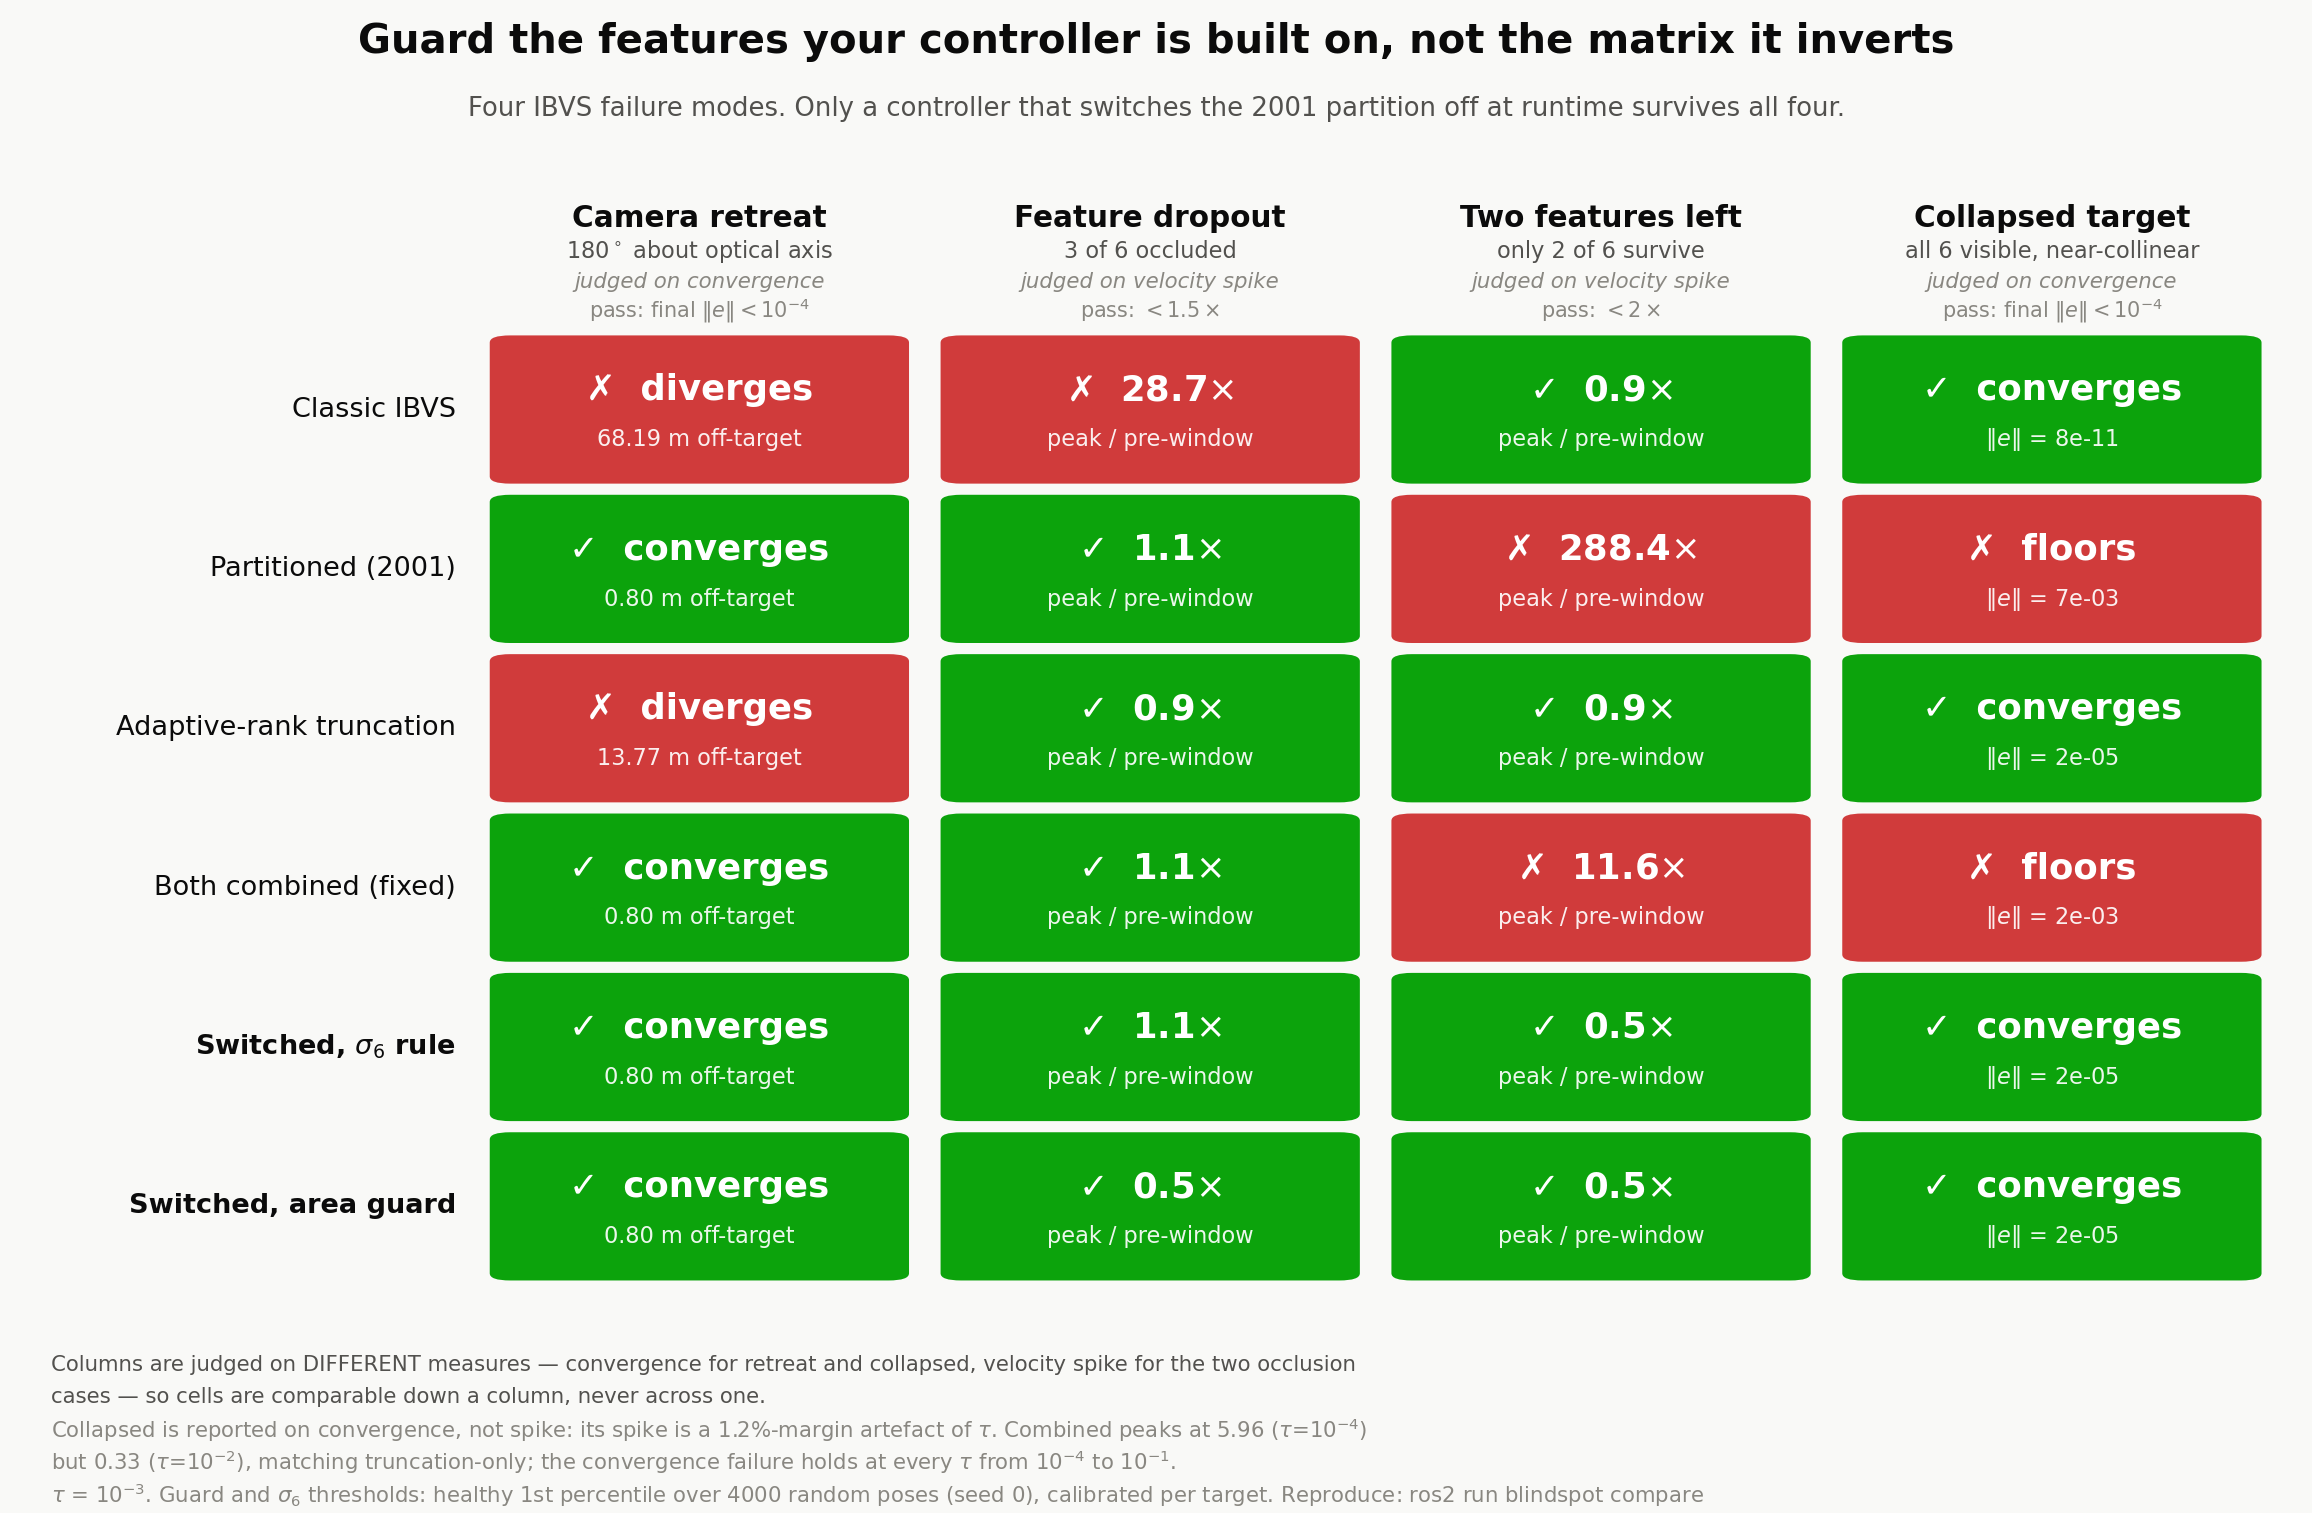
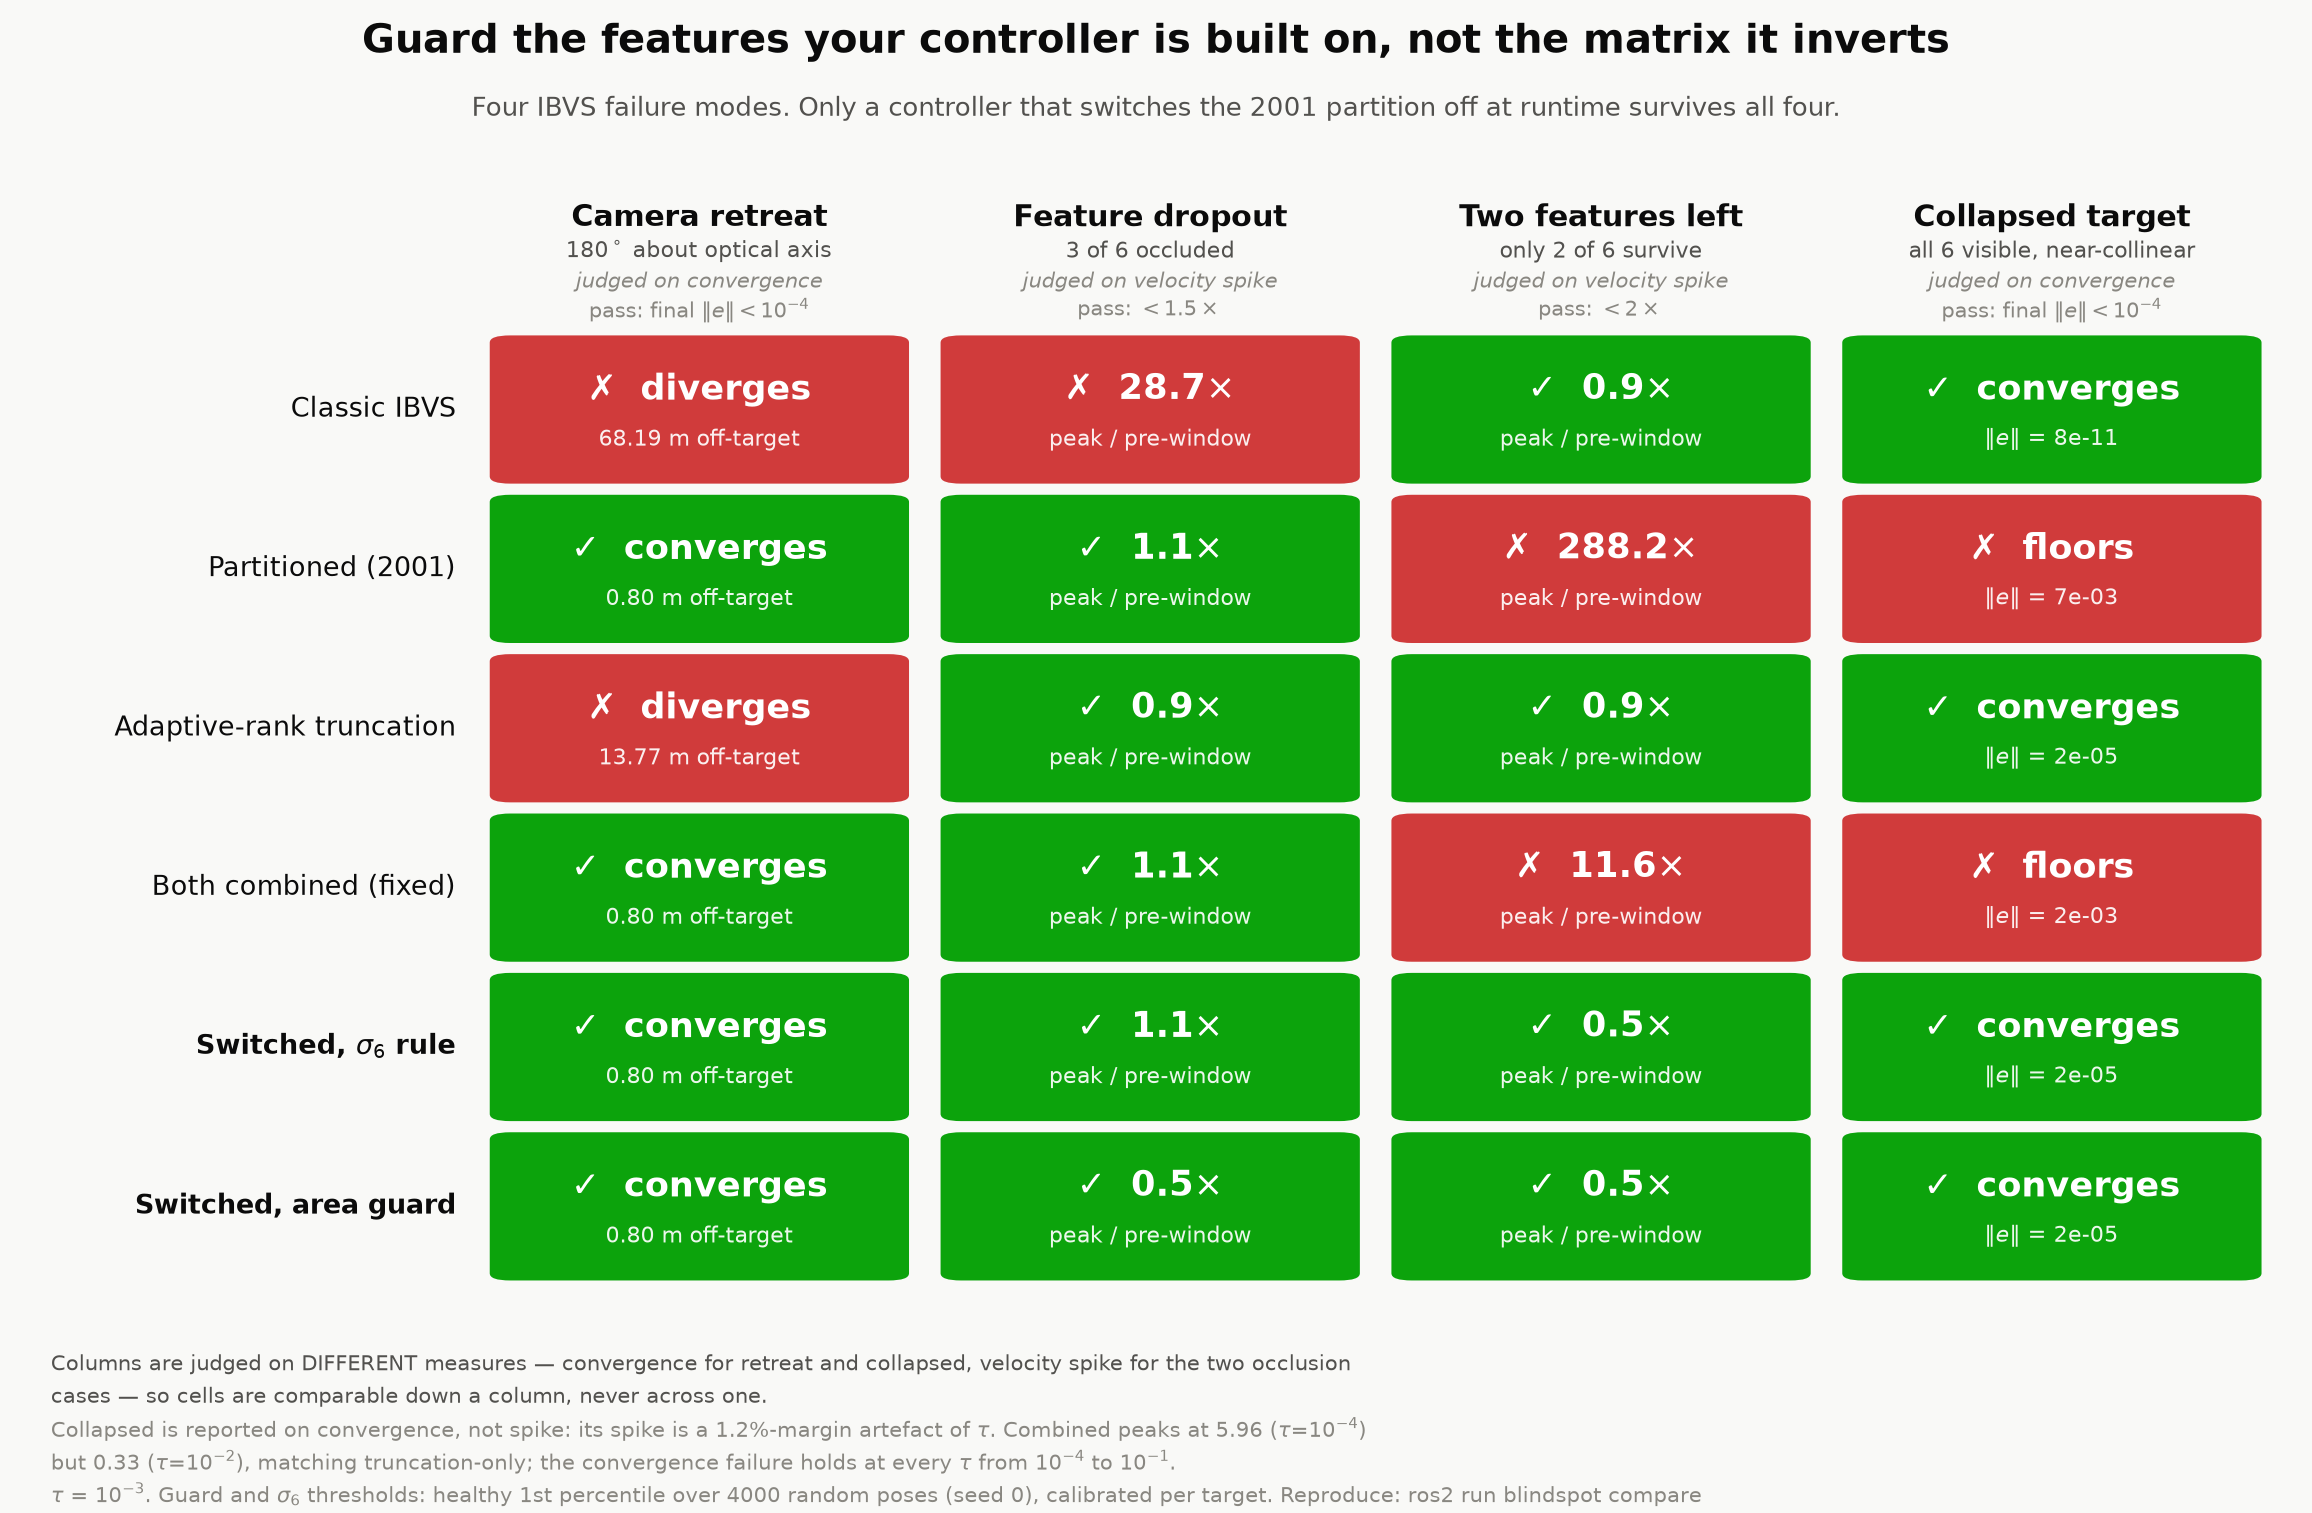
Bring the README back in line with what the code prints
Four claims had drifted from the workspace they describe.

The two-feature spike is 288.2x, not 288.4x. compare and regression both
print 288.221297, unchanged across numpy 1.26, 2.2 and 2.5, so the old
value came from code that has since moved. fig2 was stale for the same
reason and is regenerated.

Figure 1 is the 160 deg retreat, which peaks at 4.8 m and recovers. The
caption was quoting 68.19 m, which is the 180 deg row of the results
table and a different run.

guard_node's ordering self-check compares against an angular sort about
the centroid, not a convex hull; the header stopped saying hull, the
README had not. Its fovy_deg and expected_ids parameters were undocumented.

fold.launch.py starts the servo node on one spawner exiting, not on both
controller managers coming up.

diff --git a/README.md b/README.md
@@ -87,8 +87,9 @@ ros2 run blindspot_cpp quickstart                 # the guard in 30 seconds
 
 `fold.launch.py` takes `gui:=false` for headless runs and `record:=true` to
 save every camera frame by simulation timestamp — which is how the clip at the
-top of this README and the per-step CSV behind the arm table are produced. It starts the servo node once
-both controller managers are up, and exits when the act completes.
+top of this README and the per-step CSV behind the arm table are produced. It
+starts the servo node when the second cell's arm controller has finished
+loading, and exits when the act completes.
 
 ## Repository layout
 
@@ -106,7 +107,7 @@ A colcon workspace with four packages:
 | Controller | Retreat 180° | Dropout spike | 2 features | Collapsed target | Clean cost |
 |---|---|---|---|---|---|
 | Classic IBVS | ✗ 68.19 m, diverges | ✗ 28.7× | ✓ 0.9× | ✓ conv, 8e-11 | baseline |
-| Partitioned (2001) | ✓ 0.80 m, converges | ✓ 1.1× | ✗ 288.4× | ✗ floors at 7.3e-3 | +13% |
+| Partitioned (2001) | ✓ 0.80 m, converges | ✓ 1.1× | ✗ 288.2× | ✗ floors at 7.3e-3 | +13% |
 | Adaptive-rank truncation | ✗ 13.77 m, diverges | ✓ 0.9× | ✓ 0.9× | ✓ conv, 2.4e-5 | baseline |
 | Both combined (fixed) | ✓ 0.80 m, converges | ✓ 1.1× | ✗ 11.6× | ✗ floors at 2.0e-3 | +13% |
 | Switched, feature count | ✓ 0.80 m, converges | ✓ 1.1× | ✓ 0.5× | ✗ floors at 2.0e-3 | +13% |
@@ -132,8 +133,11 @@ calibrated per target, never tuned by hand.
 
 ![Camera retreat: image error falls monotonically while the camera flies metres away from the target](docs/fig1_retreat.png)
 
-*Camera retreat, the case that makes image error useless as a health signal:
-the feature error decreases at every step while the camera flies 68 m away.*
+*Camera retreat, the case that makes image error useless as a health signal.
+Shown at 160°, where the run still recovers: the feature error falls at every
+single step while the camera backs away to 4.8 m, and only the conditioning of
+`L` sees it coming. At exactly 180° it does not recover — that is the 68.19 m
+row in the table above.*
 
 ## The four failure modes
 
@@ -212,13 +216,18 @@ ros2 run blindspot_cpp guard_node --ros-args \
 | out | `~/partition_ok` | `std_msgs/Bool` |
 | out | `/diagnostics` | `diagnostic_msgs/DiagnosticArray` |
 
+Parameters are `calibration` (required), `fovy_deg` (used only when
+`camera_info` carries no intrinsics) and `expected_ids`, which ignores any
+detection whose id is not in the list.
+
 It controls nothing — gate your own servo loop on the Bool. It refuses to
 start without a calibration. Detections are ordered **by marker id** before
 the polygon area is computed (a self-crossing order would fire the guard for
 reasons unrelated to geometry), with an angular fallback; the ordering used is
-reported, and the diagnostic escalates to ERROR if the shoelace area and the
-convex-hull area disagree. Intrinsics come from `camera_info`, with a stated
-`(W−1)/2` principal-point fallback.
+reported, and the diagnostic escalates to ERROR when the points as ordered
+still enclose much less area than an angular sort about their centroid would.
+Intrinsics come from `camera_info`, with a stated `(W−1)/2` principal-point
+fallback.
 
 `demo.launch.py` drives it with synthetic detections that are shuffled every
 frame:
